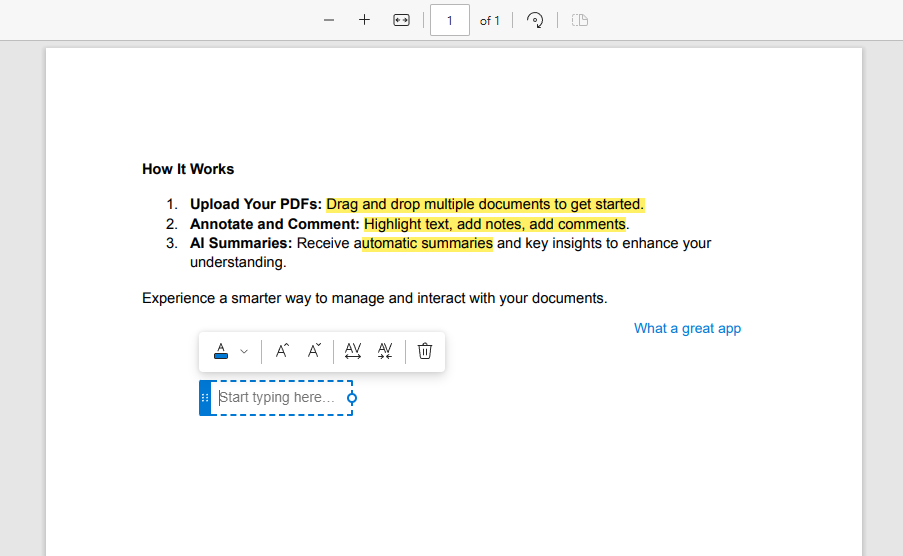
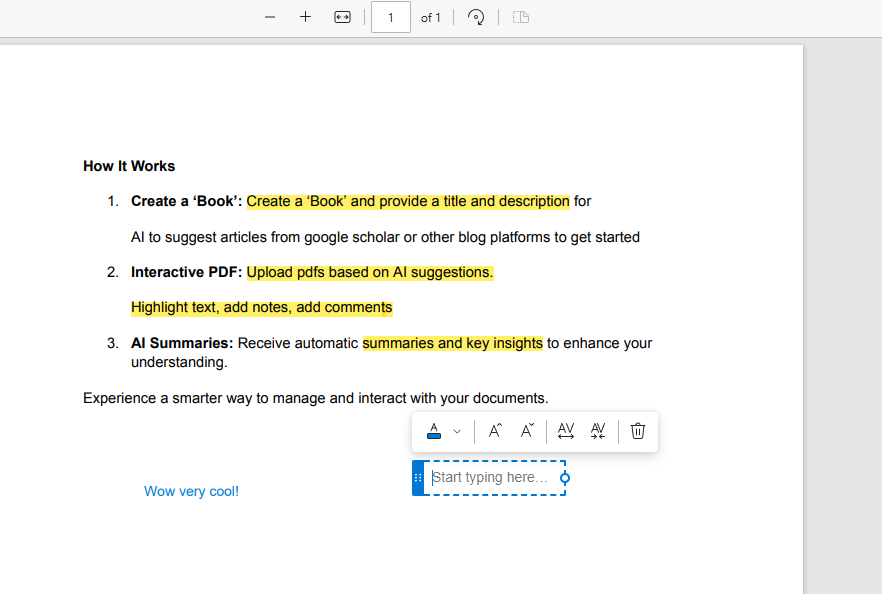
Update content in landing page to relect the app features more accurately

Changed region(s): [[0.0918, 0.2446, 0.8265, 0.8561], [0.0, 0.0, 1.0, 1.0], [0.1531, 0.795, 0.2755, 0.8561]]

diff --git a/src/app/page.tsx b/src/app/page.tsx
@@ -14,7 +14,7 @@ export default function LandingPage() {
       <main className="flex-1">
         <section className="w-full pt-12 md:pt-20">
           <div className="container px-4 md:px-6">
-            <div className="flex flex-col items-center space-y-4 text-center">
+            <div className="space-y-4 text-center">
               <div className="overflow-hidden w-full">
                 <MacbookScroll
                   title={
@@ -47,11 +47,11 @@ export default function LandingPage() {
                 <FileStack size={64} className="text-accent"/>
               </div>
               <div>
-                <h1 className="text-3xl font-bold"> Multiple PDF Files Support</h1>
-                <p>Create multiple folders that can contain multiple pdf files</p>
+                <h1 className="text-3xl font-bold mb-5"> Organize with 'Books'</h1>
+                <p className="max-w-[500px]">Start by creating a ‘Book’. Enter a title and description, and let the AI recommend articles from Google Scholar and blogs to jumpstart your collection.</p>
               </div>
             </div>
-            <div className="bg-[#5C5C5C] p-5">
+            <div className="bg-[#5C5C5C] p-5 self-start">
               <Image src="/multiplePdfs.png" width={500} height={300} alt={"GnoVistar PDF"}/>
             </div>
           </div>
@@ -61,11 +61,11 @@ export default function LandingPage() {
                 <PenTool size={64} className="text-accent"/>
               </div>
               <div>
-                <h1 className="text-3xl font-bold"> Annotate and Comment</h1>
-                <p>Free to write over the pdf and make your own comments on it.</p>
+                <h1 className="text-3xl font-bold mb-5">Engage with PDFs</h1>
+                <p className="max-w-[500px]">Upload PDFs based on AI suggestions, and make them your own by highlighting, adding notes, and commenting directly on the documents.</p>
               </div>
             </div>
-            <div className="bg-[#5C5C5C] p-5">
+            <div className="bg-[#5C5C5C] p-5 self-start">
               <Image src="/multiplePdfs.png" width={500} height={300} alt={"GnoVistar PDF"}/>
             </div>
           </div>
@@ -75,23 +75,23 @@ export default function LandingPage() {
               <Bot size={64} className="text-accent" />
               </div>
               <div>
-                <h1 className="text-3xl font-bold">AI Summaries and PDF Generation</h1>
-                <p>Free to write over the pdf and make your own comments on it.</p>
+                <h1 className="text-3xl font-bold mb-5">AI-Genearted Summaries</h1>
+                <p className="max-w-[500px]">Automatically receive summaries and key insights from your PDFs, helping you understand and manage your documents more effectively.</p>
               </div>
             </div>
-            <div className="bg-[#5C5C5C] p-5">
+            <div className="bg-[#5C5C5C] p-5 self-start">
               <Image src="/multiplePdfs.png" width={500} height={300} alt={"GnoVistar PDF"}/>
             </div>
           </div>
         </section>
-        <section id="features" className="w-full py-12 md:py-24 lg:py-32">
+        <section id="features" className="w-full min-h-[800px] py-12 md:py-24 lg:py-32">
           <div className="container px-4 md:px-6">
             {/* how it works and then next section is key features maybe no about section as well and add footer */}
             <h2 className="text-center text-3xl sm:text-4xl md:text-5xl mb-12">Key Features</h2>
             <div className="grid grid-cols-1 md:grid-cols-2 lg:grid-cols-3 gap-8">
               <BgGradientSection title={'Interactive Pdf Viewer'} content={'Highlight, annotate, and comment on your PDFs with ease.'} img={'FileText'}/>
               <BgGradientSection title={'AI-Powered Summarization'} content={'Get quick insights with AI-generated summaries of your documents.'} img={'Brain'}/>
-              <BgGradientSection title={'Batch PDF Upload'} content={'Easily upload and organize multiple PDFs at once, streamlining your document management.'} img={'Folder'}/>
+              <BgGradientSection title={'Batch PDF Collection'} content={'Quickly upload and organize PDFs into your Books for easy access and AI insights.'} img={'Folder'}/>
             </div>
           </div>
         </section>

diff --git a/src/components/ui/macbook-scroll.tsx b/src/components/ui/macbook-scroll.tsx
@@ -24,6 +24,7 @@ import { IconCommand } from "@tabler/icons-react";
 import { IconCaretLeftFilled } from "@tabler/icons-react";
 import { IconCaretDownFilled } from "@tabler/icons-react";
 import Image from "next/image";
+import { BookOpen } from "lucide-react";
 
 export const MacbookScroll = ({
   src,
@@ -70,7 +71,7 @@ export const MacbookScroll = ({
   return (
     <div
       ref={ref}
-      className="min-h-[200vh]  flex flex-col items-center py-0 justify-start flex-shrink-0 [perspective:800px] transform md:scale-100  scale-[0.35] sm:scale-50"
+      className="min-h-[200vh] flex flex-col items-center py-0 justify-start flex-shrink-0 [perspective:800px] transform md:scale-100  scale-[.85] sm:scale-50"
     >
       <motion.h2
         style={{
@@ -152,7 +153,7 @@ export const Lid = ({
           className="absolute inset-0 bg-[#010101] rounded-lg flex items-center justify-center"
         >
           <span className="text-white">
-            <AceternityLogo />
+            <GnovistarLogo />
           </span>
         </div>
       </div>
@@ -648,23 +649,8 @@ export const OptionKey = ({ className }: { className: string }) => {
   );
 };
 
-const AceternityLogo = () => {
+const GnovistarLogo = () => {
   return (
-    <svg
-      width="66"
-      height="65"
-      viewBox="0 0 66 65"
-      fill="none"
-      xmlns="http://www.w3.org/2000/svg"
-      className="h-3 w-3 text-white"
-    >
-      <path
-        d="M8 8.05571C8 8.05571 54.9009 18.1782 57.8687 30.062C60.8365 41.9458 9.05432 57.4696 9.05432 57.4696"
-        stroke="currentColor"
-        strokeWidth="15"
-        strokeMiterlimit="3.86874"
-        strokeLinecap="round"
-      />
-    </svg>
+    <BookOpen/>
   );
 };

diff --git a/src/app/dashboard/components/Sidebar.tsx b/src/app/dashboard/components/Sidebar.tsx
@@ -99,7 +99,7 @@ export function GnovistarSidebar({children}:SideBarProps) {
 export const Logo = () => {
   return (
     <Link
-      href="#"
+      href="/"
       className="font-normal flex space-x-2 items-center text-sm text-black py-1 relative z-20"
     >
       <div className="h-5 w-6 bg-primary rounded-br-lg rounded-tr-sm rounded-tl-lg rounded-bl-sm flex-shrink-0" />
@@ -116,7 +116,7 @@ export const Logo = () => {
 export const LogoIcon = () => {
   return (
     <Link
-      href="#"
+      href="/"
       className="font-normal flex space-x-2 items-center text-sm text-black py-1 relative z-20"
     >
       <div className="h-5 w-6 bg-primary rounded-br-lg rounded-tr-sm rounded-tl-lg rounded-bl-sm flex-shrink-0" />
